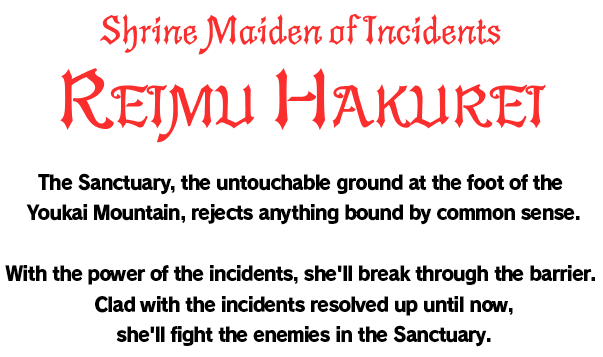
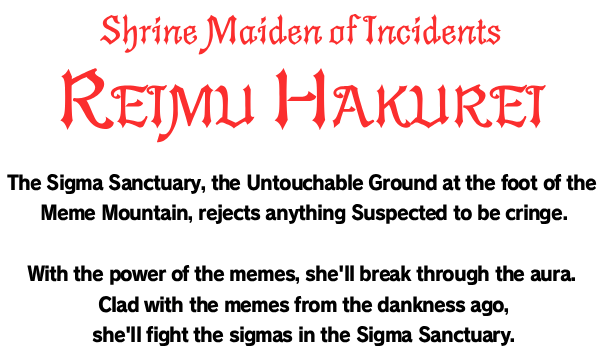
usual changes

Changed region(s): [[0.0, 0.4622, 1.0, 0.6471], [0.1493, 0.8319, 0.8657, 0.986], [0.0, 0.7395, 0.9851, 0.8011]]

diff --git a/TouhouMemeProject/th20/spells.js b/TouhouMemeProject/th20/spells.js
@@ -4,18 +4,18 @@
     "4": "Karen Sign \"Leave, Now!\"",
     "6": "Karen Sign \"Fucking Leave Now!!\"",
     "8": "Karen Sign \"#AndThenKarenSnapped\"",
-    "12": "Aura Sign \"Hammertime!\"",
-    "14": "Aura Sign \"U Can't Touch Dis\"",
-    "16": "Alpha Sign \"Daily Juicy Memes\"",
-    "18": "Alpha Sign \"Bro Just Pack it Up\"",
-    "20": "Sigma Sign \"Qi of a Gigachad Mountain\"",
-    "22": "Sigma Sign \"Qi of Sigma Peak\"",
-    "24": "Riddle Sign \"Illuminati's Labyrinth\"",
-    "26": "Riddle Sign \"Barry, 63, Labyrinth\"",
-    "28": "Obstructing Sign \"Gatekeep\"",
-    "30": "Obstructing Sign \"I Will Build a Great Wall\"",
-    "32": "Riddle Sign \"If Quizzes Are Quizzical, Then What Are Tests\"",
-    "36": "Lebron Sign \"You Are My Sunshine\"",
+    "12": "Aura Sign \"Alpha Engery\"",
+    "14": "Aura Sign \"Sigma Engery\"",
+    "16": "Alpha Sign \"Andrew Tate Tutorials\"",
+    "18": "Alpha Sign \"Virgin VS Chad\"",
+    "20": "Sigma Sign \"Qi of a Gigachad's Mountain\"",
+    "22": "Sigma Sign \"Qi of the Sigma's Peak\"",
+    "24": "Riddle Sign \"Dank Labyrinth\"",
+    "26": "Riddle Sign \"Illuminati's Labyrinth\"",
+    "28": "Rigging Sign \"Gatekeep\"",
+    "30": "Rigging Sign \"Ragebaiting\"",
+    "32": "Riddle Sign \"If Quizzes Are Quizzical...\"",
+    "36": "Riddle Sign \"Then What Are Tests?\"",
     "40": "Twitch Sign \"Streaming Around the Clock\"",
     "42": "Twitch Sign \"Twitch Subathon\"",
     "44": "Group Sign \"Gather Mods\"",
@@ -40,14 +40,14 @@
     "100": "Beer Sign \"Bergen Truck\"",
     "101": "Snek Princess \"Snek\"",
     "102": "\"Clash of All the Internet's Memes'\"",
-    "103": "Truth \"Tetra Mono-Eye\"",
-    "112": "\"Great King of Angolmois\"",
-    "104": "Truth \"Old Illuminati\"",
-    "105": "Truth \"Chemtrail Cloud\"",
-    "106": "Truth \"Reptilian Intelligence\"",
-    "107": "Truth \"Flat Earther\"",
-    "108": "Truth \"Artificial Disaster\"",
-    "109": "Truth \"New World Order\"",
-    "110": "Truth \"Tartarian Rhapsody\"",
-    "111": "\"Chocolate River\""
+    "103": "Brainrot \"Tung-Tung Eye\"",
+    "112": "\"Great King of Brainrot\"",
+    "104": "AI \"Grok, Kill This mf\"",
+    "105": "Conspiracy \"Chemicals That Turn the Frogs Gay\"",
+    "106": "Edged \"Quandale Dingle\"",
+    "107": "Brainrot \"Six Seven\"",
+    "108": "AI \"Artificial Sweep\"",
+    "109": "Conspiracy \"New Meme Illuminati\"",
+    "110": "AI \"Ghibli Rhapsody\"",
+    "111": "\"Sora 2 Video Generator\""
 }
